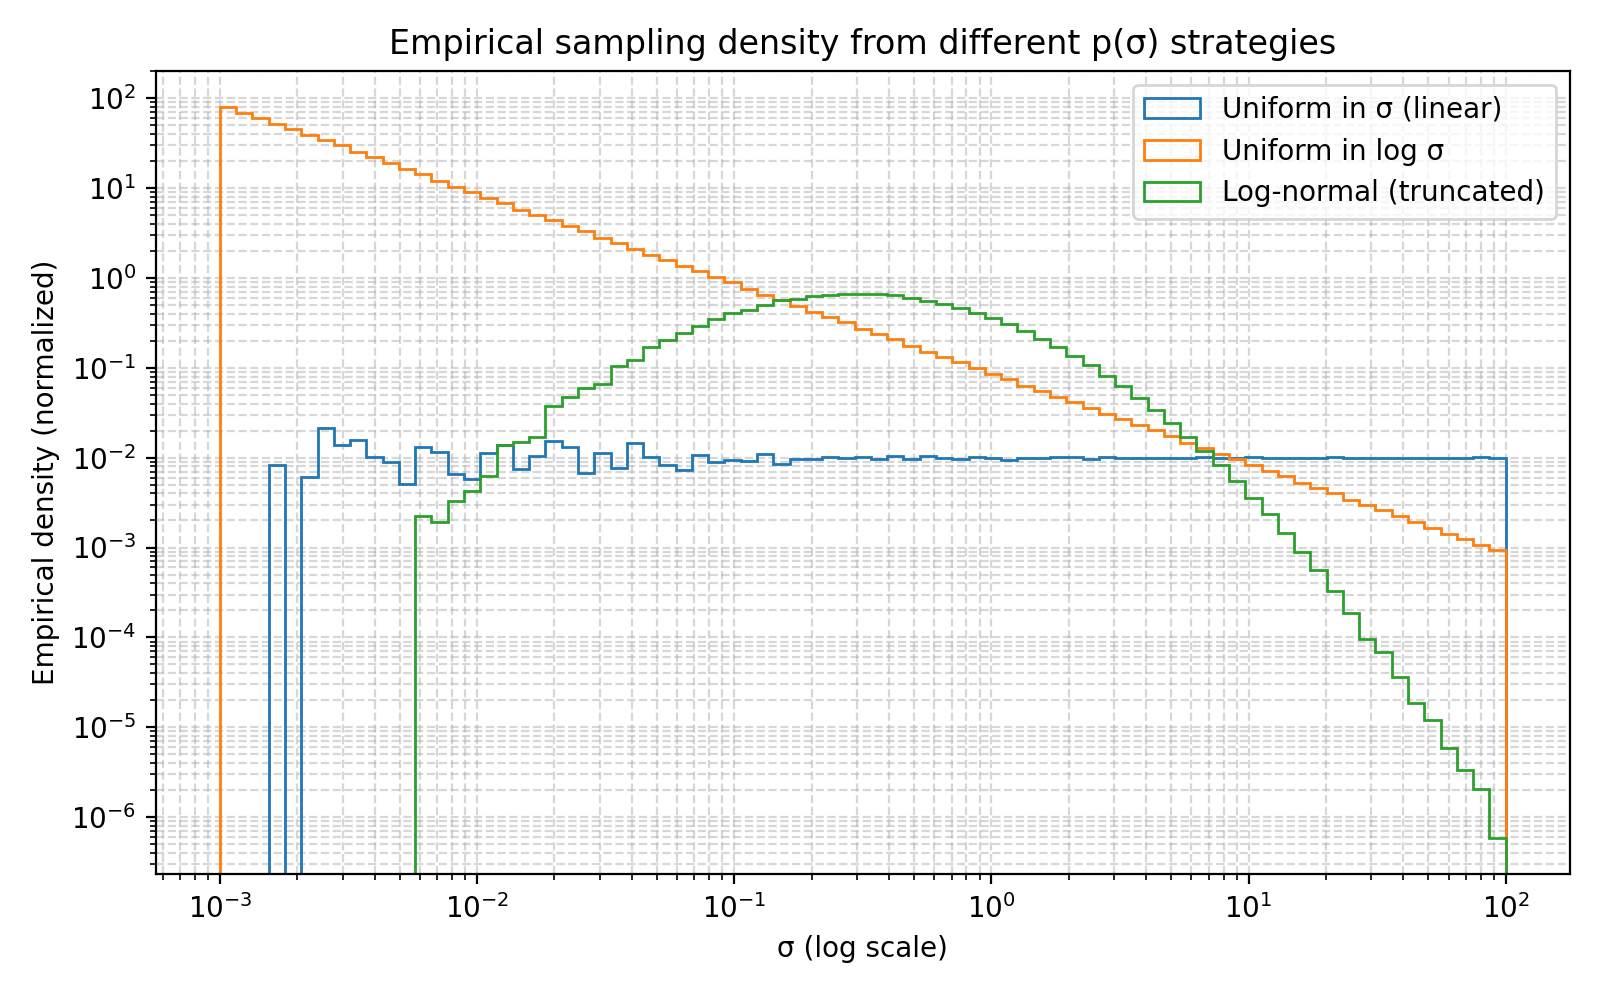
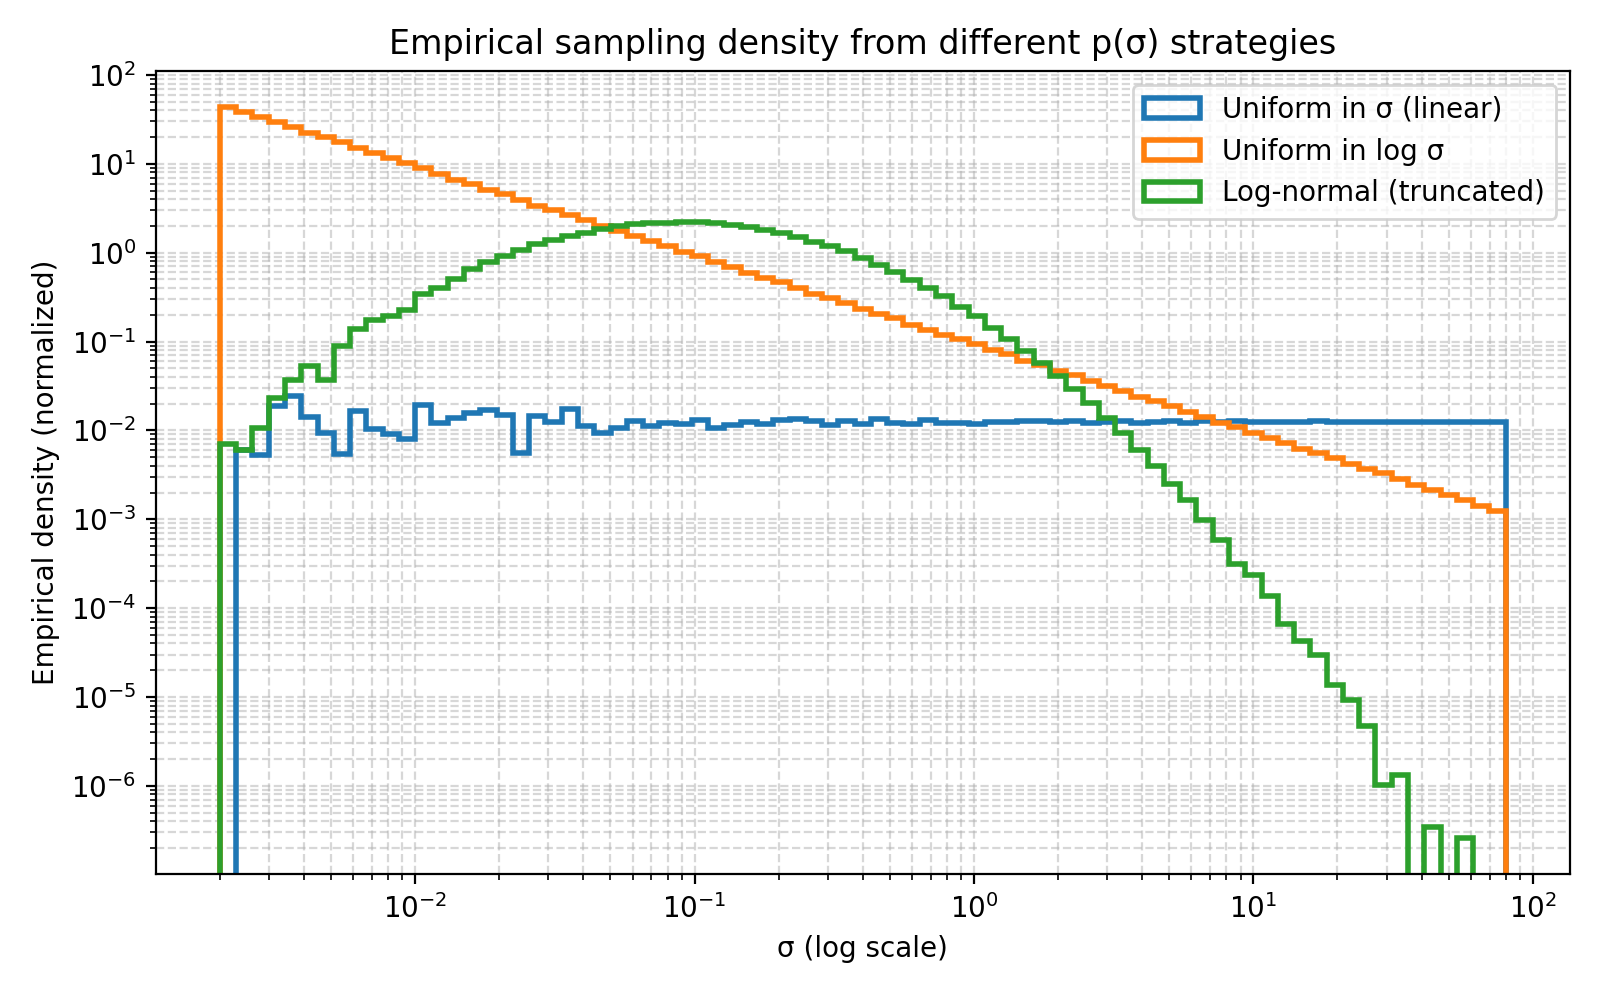
update

Changed region(s): [[0.0312, 0.062, 1.0, 0.93]]

diff --git a/images/posts/post_2/sigma_sample.py b/images/posts/post_2/sigma_sample.py
@@ -1,6 +1,7 @@
 # Sigma sampling visualization code (histogram + empirical CDF with thresholds)
 # - Uses matplotlib only (no seaborn), single-plot per figure, default colors.
 # - Saves figures and raw samples to /mnt/data for download/embedding in your blog.
+
 import numpy as np
 import matplotlib.pyplot as plt
 
@@ -8,8 +9,8 @@ import matplotlib.pyplot as plt
 # Configurable parameters
 # -----------------------
 N = 500000                    # samples per strategy
-sigma_min, sigma_max = 1e-3, 100.0
-mu, std = 0.0, 1.1             # log-normal parameters: log sigma ~ N(mu, std^2)
+sigma_min, sigma_max = 0.002, 80.0
+mu, std = -1.2, 1.1             # log-normal parameters: log sigma ~ N(mu, std^2)
 num_bins = 80                  # number of log-spaced bins for empirical density
 thresholds = [1e-2, 1e-1, 1.0, 1e1]  # vertical markers on CDF plot
 
@@ -53,9 +54,9 @@ sigma_lognormal = sample_truncated_lognormal(N, mu, std, sigma_min, sigma_max, r
 bins = np.logspace(np.log10(sigma_min), np.log10(sigma_max), num_bins)
 
 plt.figure(figsize=(8,5))
-plt.hist(sigma_linear, bins=bins, density=True, histtype='step', label='Uniform in σ (linear)')
-plt.hist(sigma_log_uniform, bins=bins, density=True, histtype='step', label='Uniform in log σ')
-plt.hist(sigma_lognormal, bins=bins, density=True, histtype='step', label='Log-normal (truncated)')
+plt.hist(sigma_linear, bins=bins, density=True, histtype='step', linewidth=2, label='Uniform in σ (linear)')
+plt.hist(sigma_log_uniform, bins=bins, density=True, histtype='step', linewidth=2, label='Uniform in log σ')
+plt.hist(sigma_lognormal, bins=bins, density=True, histtype='step', linewidth=2, label='Log-normal (truncated)')
 plt.xscale('log')
 plt.yscale('log')
 plt.xlabel('σ (log scale)')
@@ -69,49 +70,67 @@ plt.savefig(hist_path, dpi=200)
 plt.show()
 
 '''
-# -----------------------
-# Empirical CDFs
-# -----------------------
-def empirical_cdf(samples, xs):
-    s = np.sort(samples)
-    # For each x in xs, compute fraction <= x
-    return np.searchsorted(s, xs, side="right") / s.size
+import numpy as np
+import matplotlib.pyplot as plt
 
-xs = np.logspace(np.log10(sigma_min), np.log10(sigma_max), 2000)
-cdf_lin = empirical_cdf(sigma_linear, xs)
-cdf_logu = empirical_cdf(sigma_log_uniform, xs)
-cdf_logn = empirical_cdf(sigma_lognormal, xs)
+# Reproducibility
+rng = np.random.default_rng(7)
 
-plt.figure(figsize=(8,5))
-plt.plot(xs, cdf_lin, label='Uniform in σ (linear)')
-plt.plot(xs, cdf_logu, label='Uniform in log σ')
-plt.plot(xs, cdf_logn, label='Log-normal (truncated)')
-for t in thresholds:
-    plt.axvline(t, linestyle='--', linewidth=1)
-plt.xscale('log')
-plt.xlabel('σ (log scale)')
-plt.ylabel('Empirical CDF')
-plt.title('Empirical CDF of σ-sampling strategies')
-plt.legend()
-plt.grid(True, which='both', ls='--', alpha=0.5)
+# Sigma range
+sigma_min, sigma_max = 0.002, 80.0
+N = 200_000
+
+# 1) Uniform in sigma
+sigma_linear = rng.uniform(low=sigma_min, high=sigma_max, size=N)
+
+# 2) Uniform in log sigma
+log_min, log_max = np.log(sigma_min), np.log(sigma_max)
+sigma_log_uniform = np.exp(rng.uniform(low=log_min, high=log_max, size=N))
+
+# 3) Log-normal (truncated)
+mu, std = -1.2, 1.1
+def sample_truncated_lognormal(n):
+    out = []
+    batch = n
+    while len(out) < n:
+        s = rng.lognormal(mean=mu, sigma=std, size=batch)
+        s = s[(s >= sigma_min) & (s <= sigma_max)]
+        out.extend(s.tolist())
+        batch = max(1000, n - len(out))
+    return np.array(out[:n])
+
+sigma_lognormal = sample_truncated_lognormal(N)
+
+# Common bins for linear and log scale
+bins_linear = np.linspace(sigma_min, sigma_max, 200)
+bins_log = np.logspace(np.log10(sigma_min), np.log10(sigma_max), 80)
+
+# Create two subplots: linear x-axis and log x-axis
+fig, axes = plt.subplots(1, 2, figsize=(14,5))
+
+# Left: linear x-axis
+axes[0].hist(sigma_linear, bins=bins_linear, density=True, histtype='step', label='Uniform in σ (linear)')
+axes[0].hist(sigma_log_uniform, bins=bins_linear, density=True, histtype='step', label='Uniform in log σ')
+axes[0].hist(sigma_lognormal, bins=bins_linear, density=True, histtype='step', label='Log-normal (truncated)')
+axes[0].set_xlabel('σ (linear scale)')
+axes[0].set_ylabel('Empirical density')
+axes[0].set_title('Sampling distributions (linear axis)')
+axes[0].legend()
+axes[0].grid(True, ls='--', alpha=0.5)
+
+# Right: log x-axis
+axes[1].hist(sigma_linear, bins=bins_log, density=True, histtype='step', label='Uniform in σ (linear)')
+axes[1].hist(sigma_log_uniform, bins=bins_log, density=True, histtype='step', label='Uniform in log σ')
+axes[1].hist(sigma_lognormal, bins=bins_log, density=True, histtype='step', label='Log-normal (truncated)')
+axes[1].set_xscale('log')
+axes[1].set_yscale('log')
+axes[1].set_xlabel('σ (log scale)')
+axes[1].set_ylabel('Empirical density (normalized)')
+axes[1].set_title('Sampling distributions (log-log axis)')
+axes[1].legend()
+axes[1].grid(True, which='both', ls='--', alpha=0.5)
+
 plt.tight_layout()
-cdf_path = "/mnt/data/sigma_sampling_empirical_cdf.png"
-plt.savefig(cdf_path, dpi=200)
 plt.show()
 
-# -----------------------
-# Compute and print cumulative probabilities at thresholds
-# -----------------------
-def summarize_thresholds(samples, thresh_list):
-    out = []
-    for t in thresh_list:
-        frac = (samples <= t).mean()
-        out.append((t, frac))
-    return out
-
-summary_lin = summarize_thresholds(sigma_linear, thresholds)
-summary_logu = summarize_thresholds(sigma_log_uniform, thresholds)
-summary_logn = summarize_thresholds(sigma_lognormal, thresholds)
-
-summary_lin, summary_logu, summary_logn, hist_path, cdf_path
 '''

diff --git a/images/posts/post_2/sigma_samplev3.py b/images/posts/post_2/sigma_samplev3.py
@@ -1,0 +1,36 @@
+import numpy as np
+import matplotlib.pyplot as plt
+from scipy.stats import lognorm
+
+# Define sigma range
+sigma_min, sigma_max = 0.002, 80
+sigmas = np.logspace(np.log10(sigma_min), np.log10(sigma_max), 10000)
+
+# Linear uniform distribution (normalized)
+p_linear = np.ones_like(sigmas)
+p_linear /= np.trapz(p_linear, sigmas)
+
+# Log-uniform distribution (1/sigma, normalized)
+p_log_uniform = 1 / sigmas
+p_log_uniform /= np.trapz(p_log_uniform, sigmas)
+
+# Log-normal distribution (choose mean=log(1.0), std=1.0)
+mu, std = 0, 1.0
+p_log_normal = lognorm.pdf(sigmas, s=std, scale=np.exp(mu))
+p_log_normal /= np.trapz(p_log_normal, sigmas)
+
+# Plot
+plt.figure(figsize=(8,5))
+plt.plot(sigmas, p_linear, label="Uniform in σ (linear)")
+plt.plot(sigmas, p_log_uniform, label="Uniform in log σ")
+plt.plot(sigmas, p_log_normal, label="Log-normal")
+plt.xscale("log")
+plt.yscale("log")
+plt.xlabel("σ (noise scale, log axis)")
+plt.ylabel("p(σ) (normalized density, log axis)")
+plt.title("Comparison of σ-sampling strategies")
+plt.legend()
+plt.grid(True, which="both", ls="--", alpha=0.5)
+plt.tight_layout()
+
+plt.show()

diff --git a/_posts/2025-01-23-blog-post-2.md b/_posts/2025-01-23-blog-post-2.md
@@ -992,6 +992,15 @@ In the following discussion, we examine three sampling strategies: Line Uniform,
     - $P_{\text mean}$: This parameter acts like a spotlight, setting the **center of gravity** for the training process. It allows researchers to target the most relevant noise scale for a given task.
     - $P_{\text std}$: This parameter controls the **focus** of the spotlight. A small $P_{\text std}$ creates a tight, focused distribution for tasks that operate in a narrow $\sigma$ range (e.g., super-resolution). A larger $P_{\text std}$ creates a broader distribution, closer to Log-Uniform, suitable for general-purpose image generation.
 
+We apply these three sampling strategies respectively for sampling. Based on 500,000 samplings, a unified log-space histogram will be obtained
+
+![Three sigma sampling strategies comparision](/images/posts/post_2/sigma_sampling.jpg)
+
+- Linear Uniform: although flat in linear space, it allocates the majority of samples to the large-$\sigma$ end, since that region spans most of the interval.
+
+- Log Uniform: distributes training budget approximately equally across each order of magnitude, giving all noise scales comparable attention.
+
+- Log-normal: concentrates sampling density around the mid-range near $\sigma \approx 0.3$, where residuals are most informative, while still maintaining coverage of both low- and high-noise extremes.
 
 ---
 
